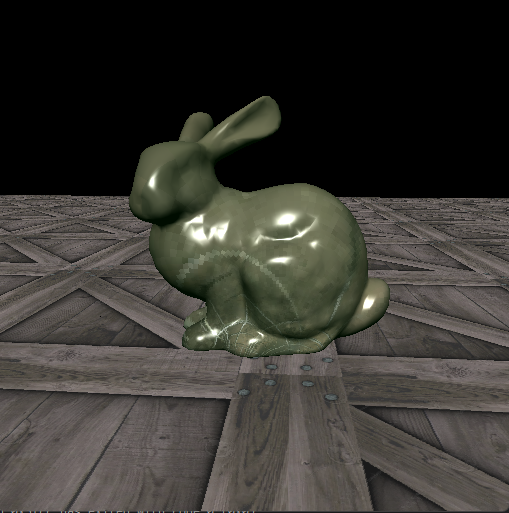
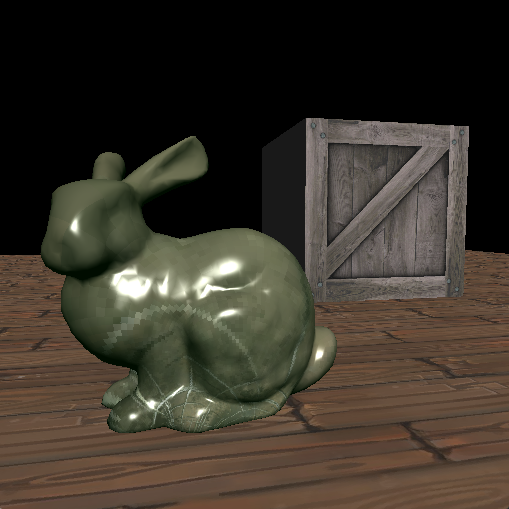
Remove test code + update screenshot

diff --git a/src/main.cpp b/src/main.cpp
@@ -25,8 +25,6 @@
 #include "texture.h"
 #include "phong_material.h"
 
-#include "nmmintrin.h"
-
 using namespace platz;
 using namespace zmath;
 
@@ -42,12 +40,18 @@ int main(void) {
 			->setComponent<Camera>(new PerspectiveProjector(60.f, 1.f, 100.f))
 			->setComponent<Transform>(Vector3(0, 1, 4), Quaternion(Vector3(zmath::radians(-15), 0, 0)), Vector3::one);
 
-		auto woodTex = std::make_shared<Texture>("media/crate.png");
+		Entities::create()
+			->setComponent<Transform>(Vector3(0, 0, 0), Quaternion(Vector3(zmath::radians(140), 0, 0)), Vector3::one)
+			->setComponent<Light>();
+
+		auto woodTex = std::make_shared<Texture>("media/wood.png");
+		auto crateTex = std::make_shared<Texture>("media/crate.png");
 		auto metalTex = std::make_shared<Texture>("media/metal.png");
 		auto checkerTex = std::make_shared<Texture>("media/checker.png");
-		auto metalMat = std::make_shared<PhongMaterial>(Color(0, .05, 0, 1), metalTex, 32.f);
+		auto metalMat = std::make_shared<PhongMaterial>(Color(0, .05f, 0, 1), metalTex, 32.f);
 		auto checkerMat = std::make_shared<PhongMaterial>(Color::white * .1f, checkerTex, 32.f);
 		auto woodMat = std::make_shared<PhongMaterial>(Color::white * .1f, woodTex, 32.f);
+		auto crateMat = std::make_shared<PhongMaterial>(Color::white * .1f, crateTex, 32.f);
 
 		auto plane = Entities::create()
 			->setComponent<Transform>(Vector3(0, 0, 0), Quaternion::identity, Vector3::one * 10)
@@ -65,23 +69,14 @@ int main(void) {
 		plane->getComponent<Visual>()->castShadows = false;
 		plane->getComponent<Visual>()->receiveShadows = true;
 
-		//auto sphere = Entities::create()
-		//	->setComponent<Transform>(Vector3(0, 0, 0), Quaternion::identity, Vector3::one * 1.f)
-		//	->setComponent<Visual>(
-		//		std::make_shared<ProceduralMesh>(sphereVb),
-		//		woodMat
-		//		);
-		//sphere->getComponent<Visual>()->receiveShadows = false;
-		//sphere->getComponent<Visual>()->castShadows = false;
-
-		//auto cube = Entities::create()
-		//	->setComponent<Transform>(Vector3(0, 0, 0), Quaternion::identity, Vector3::one * 1.f)
-		//	->setComponent<Visual>(
-		//		std::make_shared<ProceduralMesh>(cubeVb),
-		//		woodMat
-		//		);
-		//cube->getComponent<Visual>()->receiveShadows = false;
-		//cube->getComponent<Visual>()->castShadows = true;
+		auto cube = Entities::create()
+			->setComponent<Transform>(Vector3(1, 1, 1), Quaternion::identity, Vector3::one * .5f)
+			->setComponent<Visual>(
+				std::make_shared<ProceduralMesh>(cubeVb),
+				crateMat
+				);
+		cube->getComponent<Visual>()->receiveShadows = false;
+		cube->getComponent<Visual>()->castShadows = false;
 
 		auto bunny = Entities::create()
 			->setComponent<Transform>(Vector3(0, 0, 2), Quaternion::identity, Vector3::one * 7.f)
@@ -91,69 +86,8 @@ int main(void) {
 				);
 		bunny->getComponent<Visual>()->receiveShadows = false;
 		bunny->getComponent<Visual>()->castShadows = false;
-
-		Entities::create()
-			->setComponent<Transform>(Vector3(0, 0, 0), Quaternion(Vector3(zmath::radians(140), 0, 0)), Vector3::one)
-			->setComponent<Light>();
-
-		//Entities::create()
-		//	->setComponent<Transform>(Vector3::zero, Quaternion::identity, Vector3::one)
-		//	->setComponent<Visual>(
-		//		std::make_shared<ProceduralMesh>(std::make_shared<Vertexbuffer>(std::vector<Vertex>({
-		//			{{0, 1, 0, 1}, { 0, 1 }, { 0, 0, 0 }, { 1, 0, 0, 1}},
-		//			{{1, 1, -1, 1}, { 1, 0 }, { 0, 0, 0 }, { 0, 0, 1, 1}},
-		//			{{0, 1, -1, 1}, { 0, 0 }, { 0, 0, 0 }, { 0, 1, 0, 1}},					
-		//			}))),
-		//			material
-		//		);
-
-		////Entities::create()
-		////	->setComponent<Transform>(Vector3::zero, Quaternion::identity, Vector3::one * 10)
-		////	->setComponent<Visual>(
-		////		std::make_shared<ProceduralMesh>(std::make_shared<Vertexbuffer>(std::vector<Vertex>({
-		////			{{0, 0, 0, 1}, { 0, 1 }, { 0, 0, 0 }, { 1, 0, 0, 1}},
-		////			{{1, 0, -1, 1}, { 1, 0 }, { 0, 0, 0 }, { 0, 0, 1, 1}},
-		////			{{0, 0, -1, 1}, { 0, 0 }, { 0, 0, 0 }, { 0, 1, 0, 1}},
-		////			}))),
-		////			material
-		////			);
-
-		//Entities::create()
-		//	->setComponent<Transform>(Vector3::zero, Quaternion::identity, Vector3::one * 20)
-		//	->setComponent<Visual>(
-		//		std::make_shared<ProceduralMesh>(std::make_shared<Vertexbuffer>(std::vector<Vertex>({
-		//			{{0, 0, 0, 1}, { 0, 0 }, { 0, 0, 0 }, { 1, 0, 0, 1}},
-		//			{{1, 0, 1, 1}, { 1, 1 }, { 0, 0, 0 }, { 0, 0, 1, 1}},
-		//			{{1, 0, 0, 1}, { 1, 0 }, { 0, 0, 0 }, { 0, 1, 0, 1}},					
-		//			}))),
-		//			material
-		//		);
-
-		// Origin aligned triangle
-		//Entities::create()
-		//	->setComponent<Transform>(Vector3::zero, Quaternion::identity, Vector3::one)
-		//	->setComponent<Visual>(
-		//		std::make_shared<ProceduralMesh>(std::make_shared<Vertexbuffer>(std::vector<Vertex>({
-		//			{{0, 0, 0, 1}, { 0, 1 }, { 0, 0, 1 }, { 1, 0, 0, 1}},
-		//			{{1, 0, 0, 1}, { 1, 1 }, { 0, 0, 1 }, { 0, 0, 1, 1}},
-		//			{{0, 1, 0, 1}, { 0, 0 }, { 0, 0, 1 }, { 0, 1, 0, 1}}
-		//		}))),
-		//		material
-		//		);
-
-		// CENTERED TRIANGLE
-		//Entities::create()
-		//	->setComponent<Transform>(Vector3::zero, Quaternion::identity, Vector3::one)
-		//	->setComponent<Visual>(
-		//		std::make_shared<ProceduralMesh>(std::make_shared<Vertexbuffer>(std::vector<Vertex>({
-		//			{{-.5, -0.5, 0, 1}, { 0, 1 }, { 0, 0, 1 }, { 1, 0, 0, 1}},
-		//			{{.5, -.5, 0, 1}, { 1, 1 }, { 0, 0, 1 }, { 0, 1, 0, 1}},
-		//			{{0, .5, 0, 1}, { 0, 0 }, { 0, 0, 1 }, { 0, 0, 1, 1}}
-		//			}))),
-		//		woodMat
-		//		);		
 		
-		platz::Engine e(512, 512, 1);
+		platz::Engine e(512, 512, 1);		
 
 		e.onKeyChanged = [&](int key, int action) {
 			if (key == GLFW_KEY_ESCAPE) {
@@ -161,7 +95,7 @@ int main(void) {
 				return;
 			}
 		
-			const auto cameraSpeed = 10.f;
+			const auto cameraSpeed = 1.f;
 			if (action == GLFW_PRESS || action == GLFW_REPEAT) {
 
 				auto deltaTime = e.deltaTime();
